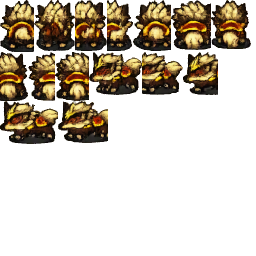
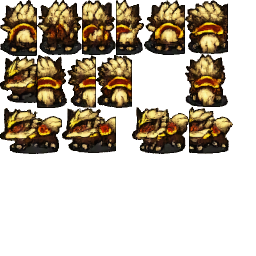
skin thu cuoi: khop khung ve voi linh thu that
Do khung ve cua linh thu that so voi toa do nhan vat (tools do trong
scratchpad, so lieu ghi lai o day):

              tren  duoi  cao
  Rong Bang   -48   +18   66   (nhin truoc)
  Heo bang    -35    +7   42
  skin cu     -52    +0   52

Con thu that deu THO XUONG DUOI toa do nhan vat +5..+24, skin cu thi dung
ngay tai do. Ma client con nang nhan vat len khi cuoi (dy_horse_tool[3] =
{-22,-15,-16,-16} cho Rong Bang) nen duoi chan nhan vat trong khong, nhin
nhu nguoi dung canh con thu chu khong phai ngoi tren.

Sua ba viec:

1. Dat day tho xuong theo ti le do duoc: 22% chieu cao khi nhin truoc, 19%
   khi nhin sau, 10% khi nhin ngang. Khung moi -43..+13, nam giua Rong Bang
   va heo bang.

2. Xep atlas theo duong chan troi thay vi ke tang. 15 anh gan bang chieu cao
   nhau chi ke duoc 4 tang, du duoi tang van trong; xep kieu chan troi nhet
   anh thap vao do -> cao 56 thay vi 52.

3. Lam toi cac diem ria hinh de tao vien. Sprite ve tay trong game deu co
   vien toi nen doc ro o co nho, anh AI thu nho tu 150px xuong 56px thi ria
   nhat dan, bet vao nen.

Khong sua file nao trong src/ nen jar giu nguyen. Nhung vi ghi de sprite cua
id dang dung nen lan nay phai TAT HAN app roi mo lai: client giu anh trong
listImgIcon theo id, khong co so phien ban.

diff --git a/tools/TaoEffThuCuoi.java b/tools/TaoEffThuCuoi.java
@@ -71,6 +71,8 @@ public class TaoEffThuCuoi {
     private static final int SO_GOC = 5;
     /** Toa do anh con luu bang byte khong dau nen atlas toi da 256x256. */
     private static final int ATLAS = 256;
+    /** Ti le chieu cao ma con thu tho xuong duoi toa do nhan vat: xuong, len, ngang. */
+    private static final double[] TI_LE_THO_XUONG = {0.22, 0.19, 0.10};
 
     public static void main(final String[] args) throws Exception {
         if (args.length < 2) {
@@ -90,6 +92,9 @@ public class TaoEffThuCuoi {
         // trong mot hang dinh vao nhau (bong, trang tri cham nhau) nen do khe trong de
         // tach se ra sai so frame; chi dinh tay thi chia deu, chac an voi bang ke luoi.
         final int[] soCot = {0, 0, 0};
+        // Do dam vien: sprite goc trong game deu co vien toi nen doc ro o co nho, con
+        // anh AI thu nho thi vien mem, nhin nhoe. 0 = khong ve vien.
+        double damVien = 0.45;
         boolean lat = true;
         for (int i = 2; i < args.length; i++) {
             final String a = args[i];
@@ -103,6 +108,7 @@ public class TaoEffThuCuoi {
             else if (a.startsWith("--cotxuong=")) soCot[0] = Integer.parseInt(a.substring(11));
             else if (a.startsWith("--cotlen=")) soCot[1] = Integer.parseInt(a.substring(9));
             else if (a.startsWith("--cotngang=")) soCot[2] = Integer.parseInt(a.substring(11));
+            else if (a.startsWith("--vien=")) damVien = Double.parseDouble(a.substring(7));
             else if (a.equals("--khonglat")) lat = false;
         }
         if (hXuong < 0 || hLen < 0 || hNgang < 0) {
@@ -188,6 +194,7 @@ public class TaoEffThuCuoi {
                     // Anh goc nhin sang phai; client chi lat khi dir == RIGHT nen anh
                     // luu san phai nhin sang trai.
                     if (lat && nhom == 2) nho = latNgang(nho);
+                    if (damVien > 0) veVien(nho, damVien);
                     anh[nhom * SO_GOC + f] = nho;
                 }
             }
@@ -198,6 +205,13 @@ public class TaoEffThuCuoi {
                 System.out.println("Khong xep noi vao " + ATLAS + "x" + ATLAS);
                 return;
             }
+        }
+
+        int caoThuc = 0, rongThuc = 0;
+        for (final BufferedImage a : anh) {
+            if (a == null) continue;
+            caoThuc = Math.max(caoThuc, a.getHeight());
+            rongThuc = Math.max(rongThuc, a.getWidth());
         }
 
         final BufferedImage atlas = new BufferedImage(ATLAS, ATLAS, BufferedImage.TYPE_INT_ARGB);
@@ -233,7 +247,15 @@ public class TaoEffThuCuoi {
                 // client lat anh bang num = -(dx + w), chi dung -w/2 thi hai huong moi
                 // trung khop tuyet doi.
                 dos.writeShort(-anh[idAnh].getWidth() / 2);
-                dos.writeShort((int) Math.round((k[1] - mocY[nhom]) * tiLe));
+                // Day con thu phai THO XUONG DUOI toa do nhan vat, khong duoc dung ngay
+                // tai do. Client nang nhan vat len khi cuoi (dy_horse_tool, Rong Bang la
+                // -22 khi nhin truoc) nen duoi chan nhan vat phai con than va chan con
+                // thu, khong thi nhin nhu nguoi dung canh con thu chu khong phai ngoi
+                // tren. Do tren linh thu that: Rong Bang tho xuong +18 / +24 / +5 (nhin
+                // truoc / sau / ngang, tuc 27% / 28% / 7% chieu cao), heo bang +7 / +4 /
+                // +5 (17% / 10% / 14%). Lay khoang giua cua hai con.
+                dos.writeShort((int) Math.round((k[1] - mocY[nhom]) * tiLe)
+                        + (int) Math.round(TI_LE_THO_XUONG[nhom] * caoThuc));
                 dos.writeByte(idAnh);
                 dos.writeByte(0);   // flip: client tu lat khi di sang phai
                 dos.writeByte(0);   // onTop = 0 -> nam trong danh sach ve sau cung
@@ -252,16 +274,14 @@ public class TaoEffThuCuoi {
         try (FileOutputStream fo = new FileOutputStream(new File("map/d_effect/" + id))) {
             fo.write(bos.toByteArray());
         }
-        int caoThat = 0, rongThat = 0;
-        for (final BufferedImage a : anh) {
-            if (a == null) continue;
-            caoThat = Math.max(caoThat, a.getHeight());
-            rongThat = Math.max(rongThat, a.getWidth());
-        }
         System.out.println("Xong: d_effect/" + id + ".png (" + ATLAS + "x" + ATLAS + ", "
-                + anh.length + " anh con, to nhat " + rongThat + "x" + caoThat + ") + d_effect/"
+                + anh.length + " anh con, to nhat " + rongThuc + "x" + caoThuc + ") + d_effect/"
                 + id + " (" + bos.size() + " byte, 21 frame), ti le "
-                + String.format("%.3f", tiLe) + " -> id gui client = " + (8700 + id));
+                + String.format("%.3f", tiLe) + ", tho xuong "
+                + Math.round(TI_LE_THO_XUONG[0] * caoThuc) + "/"
+                + Math.round(TI_LE_THO_XUONG[1] * caoThuc) + "/"
+                + Math.round(TI_LE_THO_XUONG[2] * caoThuc)
+                + " -> id gui client = " + (8700 + id));
     }
 
     /**
@@ -341,6 +361,36 @@ public class TaoEffThuCuoi {
         return rieng;
     }
 
+    /**
+     * Lam toi cac diem nam o ria hinh de tao vien, khong lam hinh to ra.
+     *
+     * Sprite ve tay trong game (Rong Bang, heo bang...) deu co vien toi nen o co nho van
+     * doc ro hinh. Anh AI thu nho tu 150px xuong 56px thi ria nhat dan ra nen nhin bet
+     * vao nen. Chi lam toi diem dac nao co canh giap nen la du.
+     */
+    private static void veVien(final BufferedImage a, final double dam) {
+        final int w = a.getWidth(), h = a.getHeight();
+        final int[] goc = a.getRGB(0, 0, w, h, null, 0, w);
+        for (int y = 0; y < h; y++) {
+            for (int x = 0; x < w; x++) {
+                final int p = goc[y * w + x];
+                if (((p >>> 24) & 0xFF) < 200) continue;
+                boolean giapNen = false;
+                for (int k = 0; k < 4 && !giapNen; k++) {
+                    final int nx = x + (k == 0 ? -1 : k == 1 ? 1 : 0);
+                    final int ny = y + (k == 2 ? -1 : k == 3 ? 1 : 0);
+                    giapNen = nx < 0 || ny < 0 || nx >= w || ny >= h
+                            || ((goc[ny * w + nx] >>> 24) & 0xFF) < 40;
+                }
+                if (!giapNen) continue;
+                final int r = (int) (((p >> 16) & 0xFF) * dam);
+                final int g = (int) (((p >> 8) & 0xFF) * dam);
+                final int b = (int) ((p & 0xFF) * dam);
+                a.setRGB(x, y, (p & 0xFF000000) | (r << 16) | (g << 8) | b);
+            }
+        }
+    }
+
     /** Lat anh theo chieu ngang. */
     private static BufferedImage latNgang(final BufferedImage a) {
         final BufferedImage r = new BufferedImage(a.getWidth(), a.getHeight(),
@@ -396,11 +446,14 @@ public class TaoEffThuCuoi {
     }
 
     /**
-     * Xep cac anh vao atlas ATLAS x ATLAS theo kieu ke tang: cao xuong thap dan, moi
-     * tang cao bang anh dau tang. Tra ve {x, y, w, h} cua tung anh, null neu khong vua.
+     * Xep cac anh vao atlas ATLAS x ATLAS theo duong chan troi (skyline): moi cot giu
+     * do cao dang dung, dat anh vao cho nao ha thap nhat. Tra ve {x, y, w, h} cua tung
+     * anh, null neu khong vua.
      *
-     * Xep kieu nay thay cho luoi o deu nhau vi frame nhin ngang rong hon han frame
-     * nhin truoc; chia o deu nhau se bo trong rat nhieu cho, ep phai thu nho con thu.
+     * Khong dung luoi o deu vi frame nhin ngang rong hon han frame nhin truoc, chia deu
+     * se bo trong rat nhieu cho. Cung khong dung ke tang vi 15 anh gan bang chieu cao
+     * nhau thi chi ke duoc 4 tang, du duoi tang van con khoang trong. Xep kieu chan troi
+     * nhet duoc anh thap vao cho trong do -> con thu to hon dang ke voi cung mot atlas.
      */
     private static int[][] xepAtlas(final BufferedImage[] anh) {
         final Integer[] thuTu = new Integer[anh.length];
@@ -410,8 +463,8 @@ public class TaoEffThuCuoi {
             final int hb = anh[b] == null ? 0 : anh[b].getHeight();
             return hb - ha;
         });
+        final int[] chanTroi = new int[ATLAS];
         final int[][] o = new int[anh.length][];
-        int x = 0, y = 0, caoTang = 0;
         for (final int i : thuTu) {
             if (anh[i] == null) {
                 o[i] = new int[]{0, 0, 1, 1};
@@ -419,15 +472,18 @@ public class TaoEffThuCuoi {
             }
             final int w = anh[i].getWidth(), h = anh[i].getHeight();
             if (w > ATLAS) return null;
-            if (x + w > ATLAS) {
-                x = 0;
-                y += caoTang;
-                caoTang = 0;
+            int datX = -1, datY = Integer.MAX_VALUE;
+            for (int x = 0; x + w <= ATLAS; x++) {
+                int y = 0;
+                for (int k = x; k < x + w; k++) y = Math.max(y, chanTroi[k]);
+                if (y < datY) {
+                    datY = y;
+                    datX = x;
+                }
             }
-            if (y + h > ATLAS) return null;
-            o[i] = new int[]{x, y, w, h};
-            x += w;
-            caoTang = Math.max(caoTang, h);
+            if (datX < 0 || datY + h > ATLAS) return null;
+            o[i] = new int[]{datX, datY, w, h};
+            for (int k = datX; k < datX + w; k++) chanTroi[k] = datY + h;
         }
         return o;
     }
